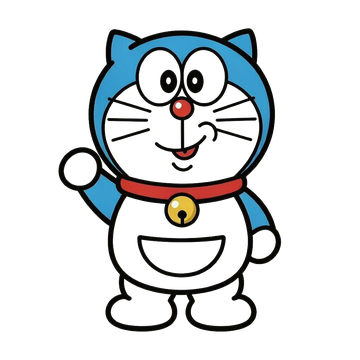
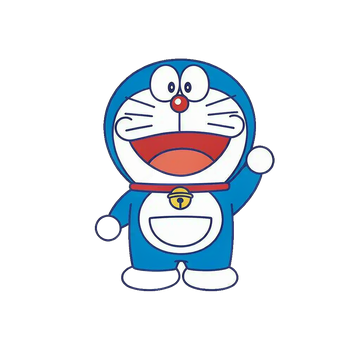
BUG修复：清理随机池中混入的3款旧Q版风吉祥物（与用户确认的原作风格不符），修复 MASCOT_POOLS 在 setInterval 中的重复注入；池子精简为哆啦A梦2款/蜡笔小新4款原作风格

Changed region(s): [[0.1528, 0.0611, 0.7944, 0.9472]]

diff --git a/index.html b/index.html
@@ -1506,7 +1506,7 @@ try{localStorage.setItem('theme',theme);}catch(e){}
 document.documentElement.setAttribute('data-theme-stored',theme);
 var actual=resolveTheme(theme);
 document.documentElement.setAttribute('data-theme',actual);
-try{window.MASCOT_POOLS=window.MASCOT_POOLS||{doraemon:['assets/theme/pool/doraemon-1.png','assets/theme/pool/doraemon-2.png','assets/theme/pool/doraemon-3.png','assets/theme/pool/doraemon-4.png','assets/theme/pool/doraemon-5.png'],shinchan:['assets/theme/pool/shinchan-1.png','assets/theme/pool/shinchan-2.png','assets/theme/pool/shinchan-3.png','assets/theme/pool/shinchan-4.png','assets/theme/pool/shinchan-5.png'],_picked:{}};var mp=window.MASCOT_POOLS;if(mp[actual]){if(!mp._picked[actual])mp._picked[actual]=mp[actual][Math.floor(Math.random()*mp[actual].length)];document.documentElement.style.setProperty('--mascot-'+actual,'url("'+mp._picked[actual]+'?v=2")');}}catch(e){}
+try{window.MASCOT_POOLS=window.MASCOT_POOLS||{doraemon:['assets/theme/pool/doraemon-4.png','assets/theme/pool/doraemon-5.png'],shinchan:['assets/theme/pool/shinchan-2.png','assets/theme/pool/shinchan-3.png','assets/theme/pool/shinchan-4.png','assets/theme/pool/shinchan-5.png'],_picked:{}};var mp=window.MASCOT_POOLS;if(mp[actual]){if(!mp._picked[actual])mp._picked[actual]=mp[actual][Math.floor(Math.random()*mp[actual].length)];document.documentElement.style.setProperty('--mascot-'+actual,'url("'+mp._picked[actual]+'?v=2")');}}catch(e){}
 var headerBtn=document.getElementById('headerThemeBtn');
 if(headerBtn){var ic=actual==='dark'?'fa-sun':(actual==='glass'?'fa-gem':(actual==='fresh'?'fa-leaf':(actual==='doraemon'||actual==='shinchan'||actual==='cartoon'?'fa-face-smile':'fa-moon')));headerBtn.innerHTML='<i class="fas '+ic+'"></i>';}
 var themeLabel=document.getElementById('themeLabel');
@@ -1552,7 +1552,7 @@ var cur='';try{cur=localStorage.getItem('theme')||'';}catch(e){}
 if(cur==='auto'){
 var actual=resolveTheme('auto');
 if(document.documentElement.getAttribute('data-theme')!==actual)document.documentElement.setAttribute('data-theme',actual);
-try{window.MASCOT_POOLS=window.MASCOT_POOLS||{doraemon:['assets/theme/pool/doraemon-1.png','assets/theme/pool/doraemon-2.png','assets/theme/pool/doraemon-3.png','assets/theme/pool/doraemon-4.png','assets/theme/pool/doraemon-5.png'],shinchan:['assets/theme/pool/shinchan-1.png','assets/theme/pool/shinchan-2.png','assets/theme/pool/shinchan-3.png','assets/theme/pool/shinchan-4.png','assets/theme/pool/shinchan-5.png'],_picked:{}};var mp=window.MASCOT_POOLS;if(mp[actual]){if(!mp._picked[actual])mp._picked[actual]=mp[actual][Math.floor(Math.random()*mp[actual].length)];document.documentElement.style.setProperty('--mascot-'+actual,'url("'+mp._picked[actual]+'?v=2")');}}catch(e){}
+
 }
 },300000);
 var CACHE_KEY='lezhe_software_cache';

diff --git a/preview.html b/preview.html
@@ -1491,7 +1491,7 @@ try{localStorage.setItem('theme',theme);}catch(e){}
 document.documentElement.setAttribute('data-theme-stored',theme);
 var actual=resolveTheme(theme);
 document.documentElement.setAttribute('data-theme',actual);
-try{window.MASCOT_POOLS=window.MASCOT_POOLS||{doraemon:['assets/theme/pool/doraemon-1.png','assets/theme/pool/doraemon-2.png','assets/theme/pool/doraemon-3.png','assets/theme/pool/doraemon-4.png','assets/theme/pool/doraemon-5.png'],shinchan:['assets/theme/pool/shinchan-1.png','assets/theme/pool/shinchan-2.png','assets/theme/pool/shinchan-3.png','assets/theme/pool/shinchan-4.png','assets/theme/pool/shinchan-5.png'],_picked:{}};var mp=window.MASCOT_POOLS;if(mp[actual]){if(!mp._picked[actual])mp._picked[actual]=mp[actual][Math.floor(Math.random()*mp[actual].length)];document.documentElement.style.setProperty('--mascot-'+actual,'url("'+mp._picked[actual]+'?v=2")');}}catch(e){}
+try{window.MASCOT_POOLS=window.MASCOT_POOLS||{doraemon:['assets/theme/pool/doraemon-4.png','assets/theme/pool/doraemon-5.png'],shinchan:['assets/theme/pool/shinchan-2.png','assets/theme/pool/shinchan-3.png','assets/theme/pool/shinchan-4.png','assets/theme/pool/shinchan-5.png'],_picked:{}};var mp=window.MASCOT_POOLS;if(mp[actual]){if(!mp._picked[actual])mp._picked[actual]=mp[actual][Math.floor(Math.random()*mp[actual].length)];document.documentElement.style.setProperty('--mascot-'+actual,'url("'+mp._picked[actual]+'?v=2")');}}catch(e){}
 var headerBtn=document.getElementById('headerThemeBtn');
 if(headerBtn){var ic=actual==='dark'?'fa-sun':(actual==='glass'?'fa-gem':'fa-moon');headerBtn.innerHTML='<i class="fas '+ic+'"></i>';}
 var themeLabel=document.getElementById('themeLabel');
@@ -1537,7 +1537,7 @@ var cur='';try{cur=localStorage.getItem('theme')||'';}catch(e){}
 if(cur==='auto'){
 var actual=resolveTheme('auto');
 if(document.documentElement.getAttribute('data-theme')!==actual)document.documentElement.setAttribute('data-theme',actual);
-try{window.MASCOT_POOLS=window.MASCOT_POOLS||{doraemon:['assets/theme/pool/doraemon-1.png','assets/theme/pool/doraemon-2.png','assets/theme/pool/doraemon-3.png','assets/theme/pool/doraemon-4.png','assets/theme/pool/doraemon-5.png'],shinchan:['assets/theme/pool/shinchan-1.png','assets/theme/pool/shinchan-2.png','assets/theme/pool/shinchan-3.png','assets/theme/pool/shinchan-4.png','assets/theme/pool/shinchan-5.png'],_picked:{}};var mp=window.MASCOT_POOLS;if(mp[actual]){if(!mp._picked[actual])mp._picked[actual]=mp[actual][Math.floor(Math.random()*mp[actual].length)];document.documentElement.style.setProperty('--mascot-'+actual,'url("'+mp._picked[actual]+'?v=2")');}}catch(e){}
+
 }
 },300000);
 var CACHE_KEY='lezhe_software_cache';
